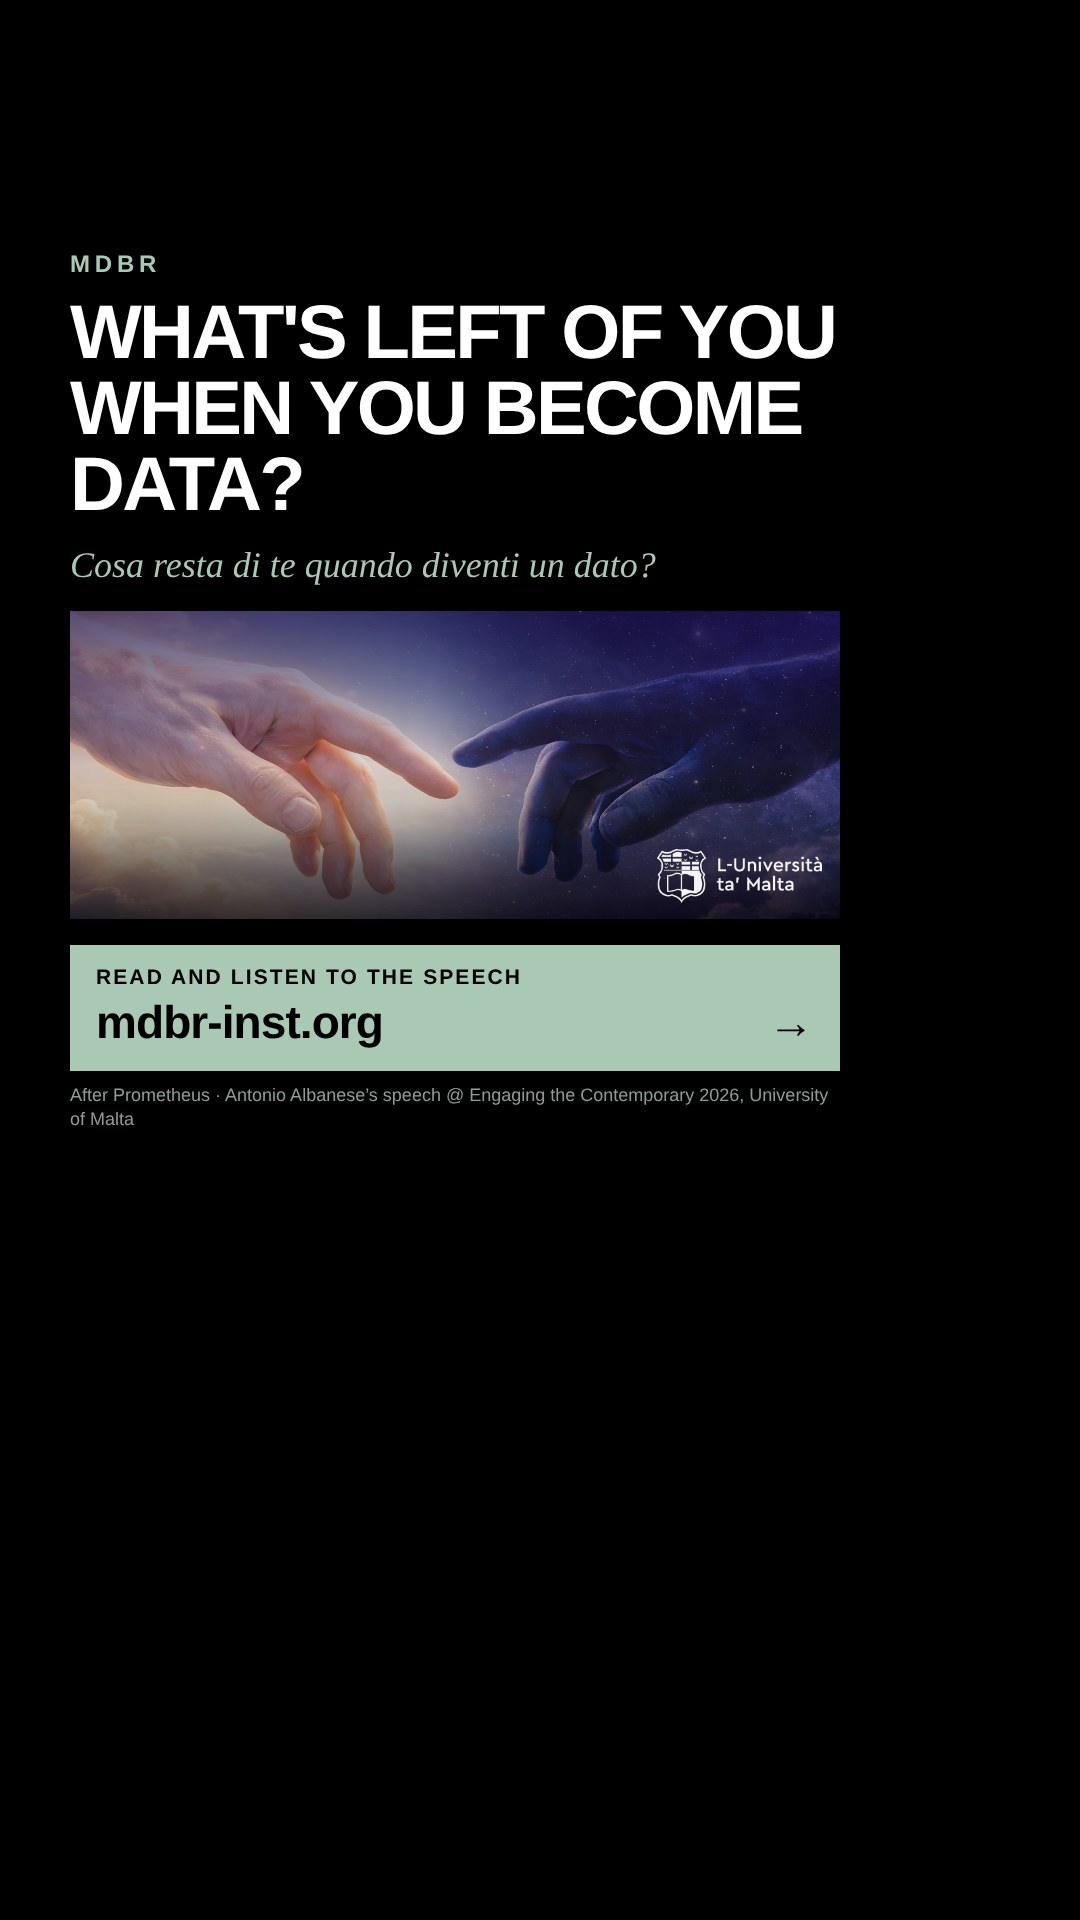
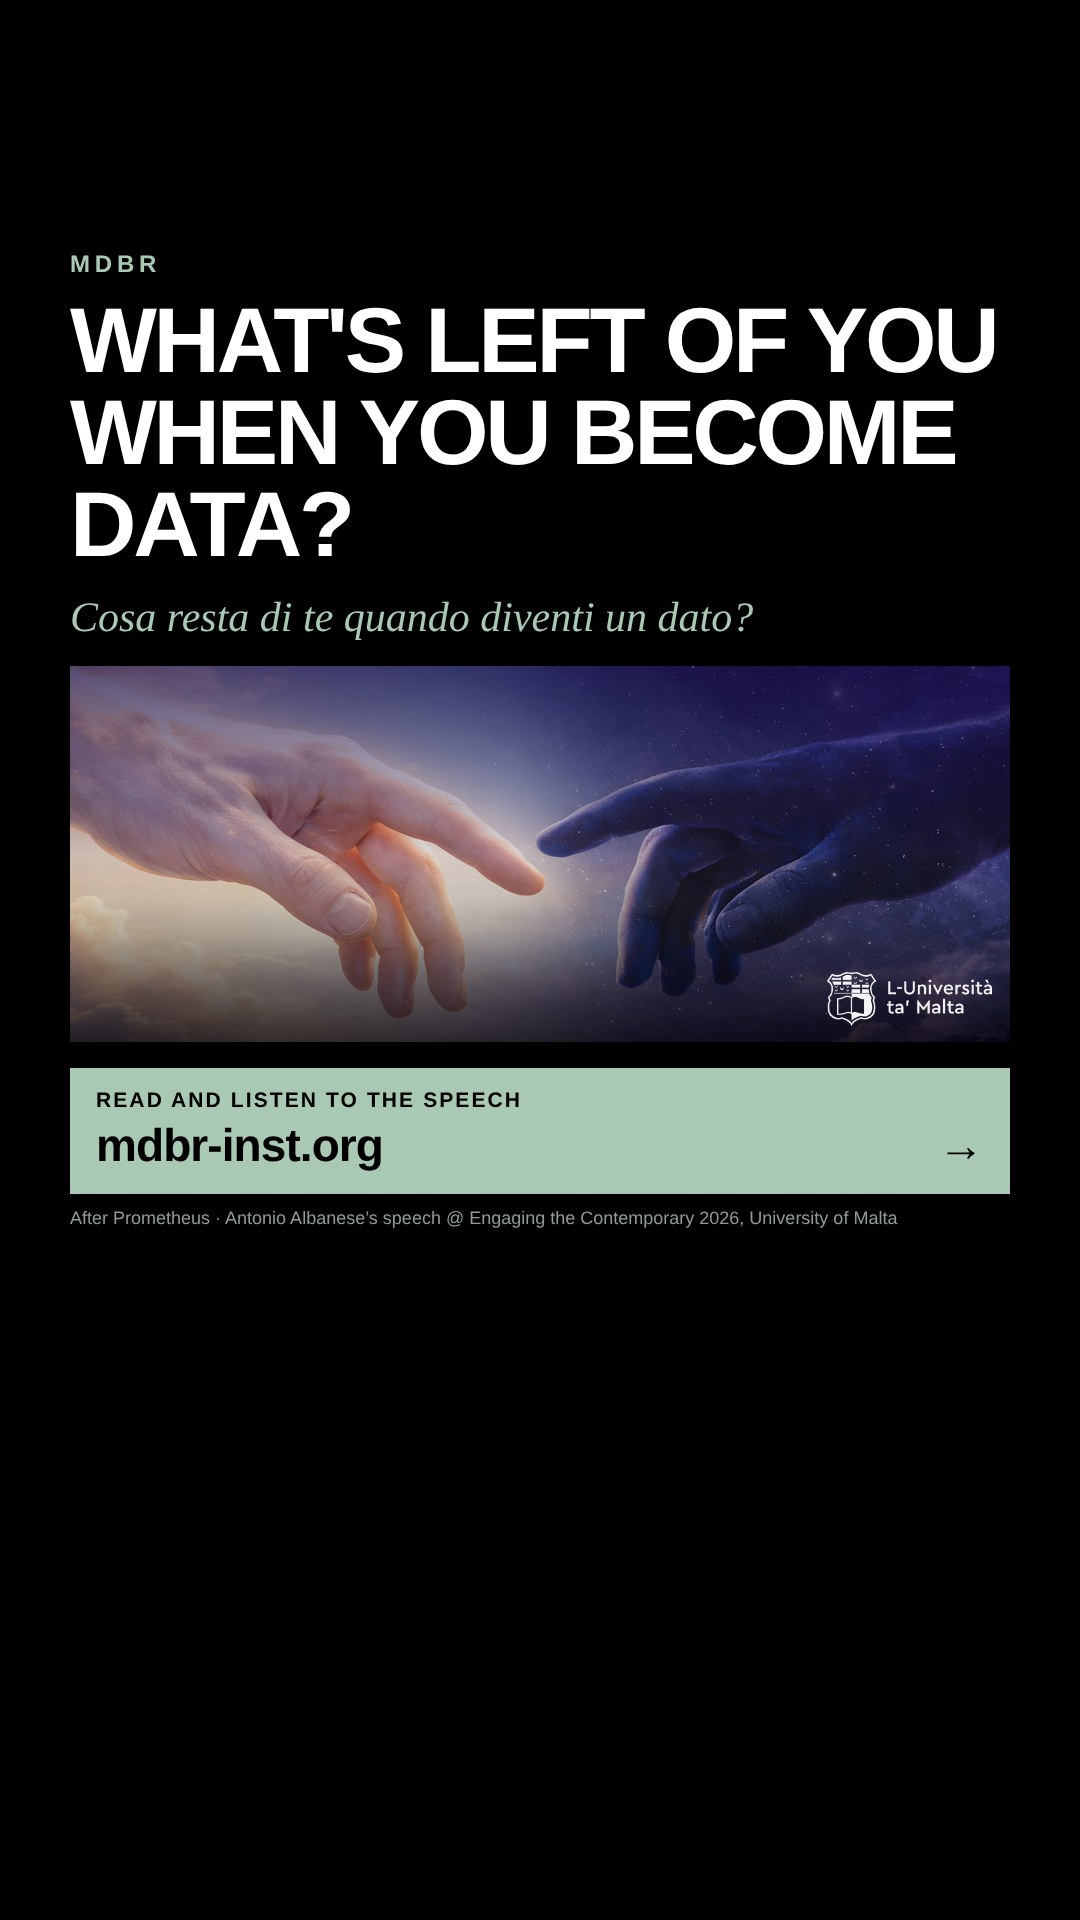
Card TikTok: di nuovo a tutta larghezza, sempre sopra la didascalia
Claude-Session: https://claude.ai/code/session_01Hsg1yjSxfM1i1xQ1f2Qe3u

Changed region(s): [[0.0611, 0.1562, 0.9472, 0.6562]]

diff --git a/talks/after-prometheus/en/index.html b/talks/after-prometheus/en/index.html
@@ -134,7 +134,7 @@ E voi: che cosa, della vita, l&#x27;intelligenza artificiale non può misurare?
 
 What about you: what, of life, can artificial intelligence not measure?
 
-#philosophy #artificialintelligence #Prometheus #ethics" data-story-it="/assets/story/after-prometheus-it.jpg?v=3" data-story-tt-it="/assets/story/after-prometheus-tt-it.jpg?v=4" data-story-tt-en="/assets/story/after-prometheus-tt-en.jpg?v=4" data-cap-tt-it="Cosa resta di te quando diventi un dato? 🔥
+#philosophy #artificialintelligence #Prometheus #ethics" data-story-it="/assets/story/after-prometheus-it.jpg?v=3" data-story-tt-it="/assets/story/after-prometheus-tt-it.jpg?v=5" data-story-tt-en="/assets/story/after-prometheus-tt-en.jpg?v=5" data-cap-tt-it="Cosa resta di te quando diventi un dato? 🔥
 🇬🇧 What&#x27;s left of you when you become data?
 
 🇮🇹 After Prometheus: lo speech di Antonio Albanese @ Engaging the Contemporary 2026, University of Malta. Da Eschilo agli LLM, il mito di Prometeo e il logos calcolato. Tu cosa ne pensi? Scrivilo nei commenti 👇

diff --git a/talks/after-prometheus/index.html b/talks/after-prometheus/index.html
@@ -134,7 +134,7 @@ E voi: che cosa, della vita, l&#x27;intelligenza artificiale non può misurare?
 
 What about you: what, of life, can artificial intelligence not measure?
 
-#philosophy #artificialintelligence #Prometheus #ethics" data-story-it="/assets/story/after-prometheus-it.jpg?v=3" data-story-tt-it="/assets/story/after-prometheus-tt-it.jpg?v=4" data-story-tt-en="/assets/story/after-prometheus-tt-en.jpg?v=4" data-cap-tt-it="Cosa resta di te quando diventi un dato? 🔥
+#philosophy #artificialintelligence #Prometheus #ethics" data-story-it="/assets/story/after-prometheus-it.jpg?v=3" data-story-tt-it="/assets/story/after-prometheus-tt-it.jpg?v=5" data-story-tt-en="/assets/story/after-prometheus-tt-en.jpg?v=5" data-cap-tt-it="Cosa resta di te quando diventi un dato? 🔥
 🇬🇧 What&#x27;s left of you when you become data?
 
 🇮🇹 After Prometheus: lo speech di Antonio Albanese @ Engaging the Contemporary 2026, University of Malta. Da Eschilo agli LLM, il mito di Prometeo e il logos calcolato. Tu cosa ne pensi? Scrivilo nei commenti 👇

diff --git a/notes/lavoro-intelligente/en/index.html b/notes/lavoro-intelligente/en/index.html
@@ -64,7 +64,7 @@ At the Jobless Society Forum at Fondazione MAST in Bologna, artificial intellige
 
 What do you think: does work remain a human place?
 
-#philosophy #artificialintelligence #futureofwork #ethics" data-story-it="/assets/story/lavoro-intelligente-it.jpg?v=3" data-story-tt-it="/assets/story/lavoro-intelligente-tt-it.jpg?v=4" data-story-tt-en="/assets/story/lavoro-intelligente-tt-en.jpg?v=4" data-cap-tt-it="Se l&#x27;AI fa il tuo lavoro, tu chi sei? 🤖
+#philosophy #artificialintelligence #futureofwork #ethics" data-story-it="/assets/story/lavoro-intelligente-it.jpg?v=3" data-story-tt-it="/assets/story/lavoro-intelligente-tt-it.jpg?v=5" data-story-tt-en="/assets/story/lavoro-intelligente-tt-en.jpg?v=5" data-cap-tt-it="Se l&#x27;AI fa il tuo lavoro, tu chi sei? 🤖
 🇬🇧 If AI does your job, who are you?
 
 🇮🇹 Una nota filosofica dal Jobless Society Forum, Fondazione MAST di Bologna. Le macchine che parlano lavorano anche meglio: ma a cosa lavora questo lavoro? Tu cosa ne pensi? Scrivilo nei commenti 👇

diff --git a/notes/lavoro-intelligente/index.html b/notes/lavoro-intelligente/index.html
@@ -64,7 +64,7 @@ At the Jobless Society Forum at Fondazione MAST in Bologna, artificial intellige
 
 What do you think: does work remain a human place?
 
-#philosophy #artificialintelligence #futureofwork #ethics" data-story-it="/assets/story/lavoro-intelligente-it.jpg?v=3" data-story-tt-it="/assets/story/lavoro-intelligente-tt-it.jpg?v=4" data-story-tt-en="/assets/story/lavoro-intelligente-tt-en.jpg?v=4" data-cap-tt-it="Se l&#x27;AI fa il tuo lavoro, tu chi sei? 🤖
+#philosophy #artificialintelligence #futureofwork #ethics" data-story-it="/assets/story/lavoro-intelligente-it.jpg?v=3" data-story-tt-it="/assets/story/lavoro-intelligente-tt-it.jpg?v=5" data-story-tt-en="/assets/story/lavoro-intelligente-tt-en.jpg?v=5" data-cap-tt-it="Se l&#x27;AI fa il tuo lavoro, tu chi sei? 🤖
 🇬🇧 If AI does your job, who are you?
 
 🇮🇹 Una nota filosofica dal Jobless Society Forum, Fondazione MAST di Bologna. Le macchine che parlano lavorano anche meglio: ma a cosa lavora questo lavoro? Tu cosa ne pensi? Scrivilo nei commenti 👇
